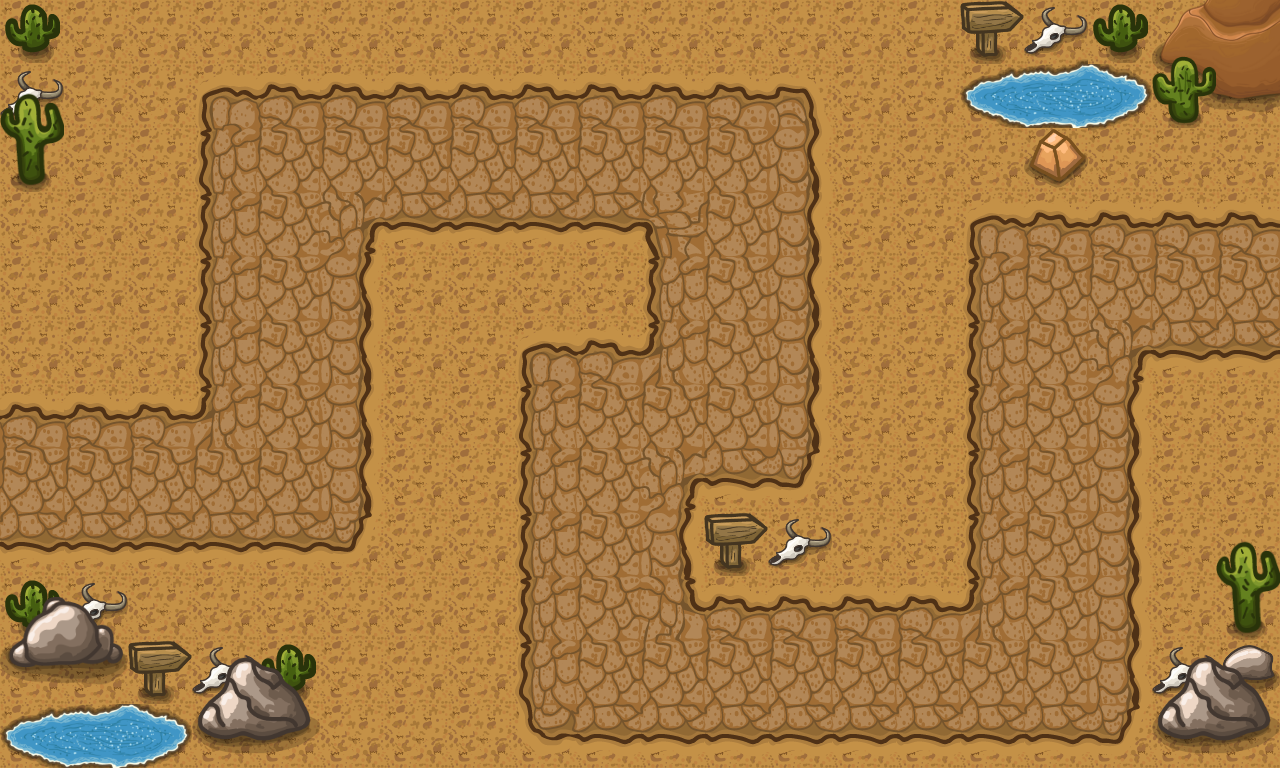
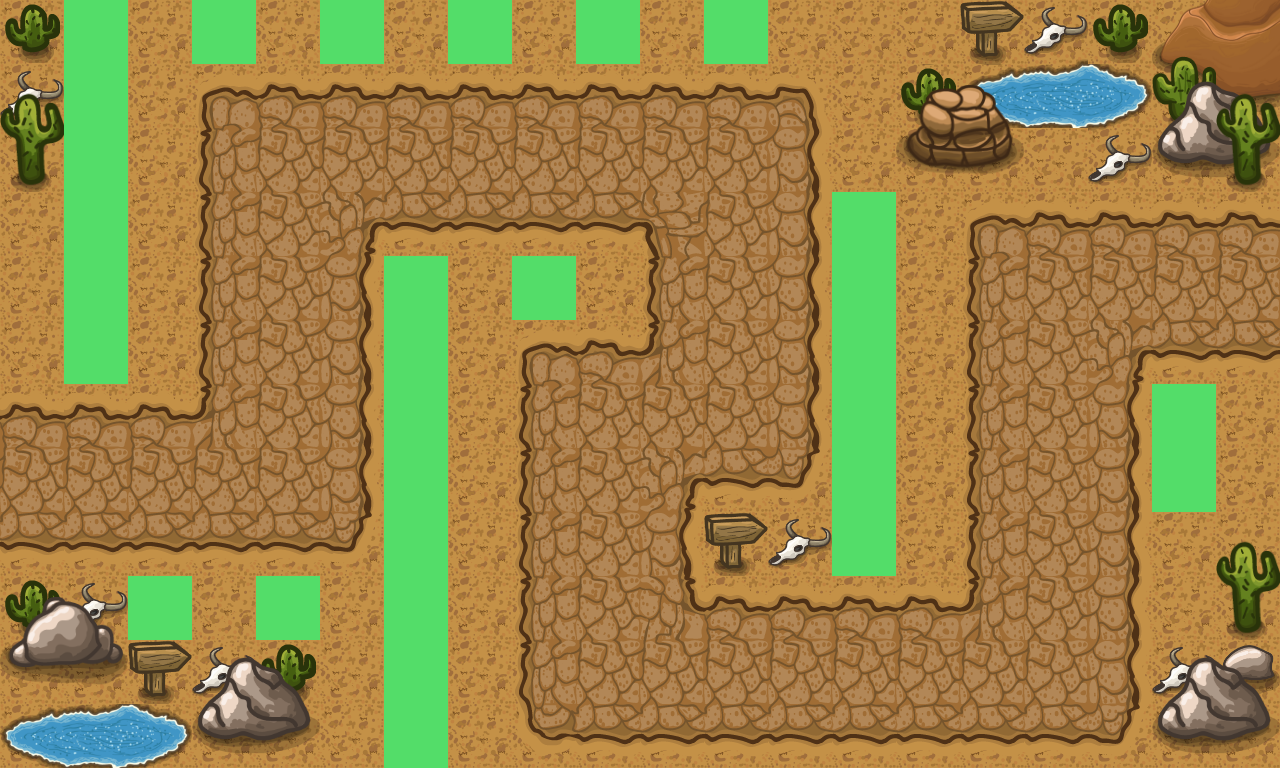
compelete Building Placement

diff --git a/assets/towerDefense.js b/assets/towerDefense.js
@@ -144,14 +144,14 @@
                 }],
          "opacity":1,
          "type":"objectgroup",
-         "visible":true,
+         "visible":false,
          "x":0,
          "y":0
         }, 
         {
          "data":[0, 0, 0, 0, 0, 0, 0, 0, 0, 0, 0, 0, 0, 0, 0, 47, 48, 49, 58, 0,
             57, 0, 0, 0, 0, 0, 0, 0, 0, 0, 0, 0, 0, 0, 0, 0, 0, 0, 72, 0,
-            71, 0, 0, 0, 0, 0, 0, 0, 0, 0, 0, 0, 0, 0, 0, 0, 44, 0, 0, 0,
+            71, 0, 0, 0, 0, 0, 0, 0, 0, 0, 0, 0, 0, 0, 0, 0, 0, 48, 0, 0,
             0, 0, 0, 0, 0, 0, 0, 0, 0, 0, 0, 0, 0, 0, 0, 0, 0, 0, 0, 0,
             0, 0, 0, 0, 0, 0, 0, 0, 0, 0, 0, 0, 0, 0, 0, 0, 0, 0, 0, 0,
             0, 0, 0, 0, 0, 0, 0, 0, 0, 0, 0, 0, 0, 0, 0, 0, 0, 0, 0, 0,
@@ -173,8 +173,8 @@
         }, 
         {
          "data":[0, 0, 0, 0, 0, 0, 0, 0, 0, 0, 0, 0, 0, 0, 0, 0, 120, 0, 0, 0,
-            0, 0, 0, 0, 0, 0, 0, 0, 0, 0, 0, 0, 0, 0, 0, 133, 134, 135, 0, 0,
-            0, 0, 0, 0, 0, 0, 0, 0, 0, 0, 0, 0, 0, 0, 0, 0, 0, 149, 0, 0,
+            0, 0, 0, 0, 0, 0, 0, 0, 0, 0, 0, 0, 0, 0, 49, 133, 134, 135, 87, 88,
+            0, 0, 0, 0, 0, 0, 0, 0, 0, 0, 0, 0, 0, 0, 0, 0, 0, 149, 101, 102,
             0, 0, 0, 0, 0, 0, 0, 0, 0, 0, 0, 0, 0, 0, 0, 0, 0, 0, 0, 0,
             0, 0, 0, 0, 0, 0, 0, 0, 0, 0, 0, 0, 0, 0, 0, 0, 0, 0, 0, 0,
             0, 0, 0, 0, 0, 0, 0, 0, 0, 0, 0, 0, 0, 0, 0, 0, 0, 0, 0, 0,
@@ -193,8 +193,54 @@
          "width":20,
          "x":0,
          "y":0
+        }, 
+        {
+         "data":[0, 0, 0, 0, 0, 0, 0, 0, 0, 0, 0, 0, 0, 0, 0, 0, 0, 0, 0, 0,
+            0, 0, 0, 0, 0, 0, 0, 0, 0, 0, 0, 0, 0, 0, 85, 86, 0, 0, 0, 57,
+            0, 0, 0, 0, 0, 0, 0, 0, 0, 0, 0, 0, 0, 0, 99, 100, 0, 0, 0, 71,
+            0, 0, 0, 0, 0, 0, 0, 0, 0, 0, 0, 0, 0, 0, 0, 0, 0, 0, 0, 0,
+            0, 0, 0, 0, 0, 0, 0, 0, 0, 0, 0, 0, 0, 0, 0, 0, 0, 0, 0, 0,
+            0, 0, 0, 0, 0, 0, 0, 0, 0, 0, 0, 0, 0, 0, 0, 0, 0, 0, 0, 0,
+            0, 0, 0, 0, 0, 0, 0, 0, 0, 0, 0, 0, 0, 0, 0, 0, 0, 0, 0, 0,
+            0, 0, 0, 0, 0, 0, 0, 0, 0, 0, 0, 0, 0, 0, 0, 0, 0, 0, 0, 0,
+            0, 0, 0, 0, 0, 0, 0, 0, 0, 0, 0, 0, 0, 0, 0, 0, 0, 0, 0, 0,
+            0, 0, 0, 0, 0, 0, 0, 0, 0, 0, 0, 0, 0, 0, 0, 0, 0, 0, 0, 0,
+            0, 0, 0, 0, 0, 0, 0, 0, 0, 0, 0, 0, 0, 0, 0, 0, 0, 0, 0, 0,
+            0, 0, 0, 0, 0, 0, 0, 0, 0, 0, 0, 0, 0, 0, 0, 0, 0, 0, 0, 0],
+         "height":12,
+         "id":9,
+         "name":"Details 4",
+         "opacity":1,
+         "type":"tilelayer",
+         "visible":true,
+         "width":20,
+         "x":0,
+         "y":0
+        }, 
+        {
+         "data":[0, 14, 0, 14, 0, 14, 0, 14, 0, 14, 0, 14, 0, 0, 0, 0, 0, 0, 0, 0,
+            0, 14, 0, 0, 0, 0, 0, 0, 0, 0, 0, 0, 0, 0, 0, 0, 0, 0, 0, 0,
+            0, 14, 0, 0, 0, 0, 0, 0, 0, 0, 0, 0, 0, 0, 0, 0, 0, 0, 0, 0,
+            0, 14, 0, 0, 0, 0, 0, 0, 0, 0, 0, 0, 0, 14, 0, 0, 0, 0, 0, 0,
+            0, 14, 0, 0, 0, 0, 14, 0, 14, 0, 0, 0, 0, 14, 0, 0, 0, 0, 0, 0,
+            0, 14, 0, 0, 0, 0, 14, 0, 0, 0, 0, 0, 0, 14, 0, 0, 0, 0, 0, 0,
+            0, 0, 0, 0, 0, 0, 14, 0, 0, 0, 0, 0, 0, 14, 0, 0, 0, 0, 14, 0,
+            0, 0, 0, 0, 0, 0, 14, 0, 0, 0, 0, 0, 0, 14, 0, 0, 0, 0, 14, 0,
+            0, 0, 0, 0, 0, 0, 14, 0, 0, 0, 0, 0, 0, 14, 0, 0, 0, 0, 0, 0,
+            0, 0, 14, 0, 14, 0, 14, 0, 0, 0, 0, 0, 0, 0, 0, 0, 0, 0, 0, 0,
+            0, 0, 0, 0, 0, 0, 14, 0, 0, 0, 0, 0, 0, 0, 0, 0, 0, 0, 0, 0,
+            0, 0, 0, 0, 0, 0, 14, 0, 0, 0, 0, 0, 0, 0, 0, 0, 0, 0, 0, 0],
+         "height":12,
+         "id":10,
+         "name":"Placement Title",
+         "opacity":1,
+         "type":"tilelayer",
+         "visible":true,
+         "width":20,
+         "x":0,
+         "y":0
         }],
- "nextlayerid":9,
+ "nextlayerid":11,
  "nextobjectid":3,
  "orientation":"orthogonal",
  "renderorder":"right-down",

diff --git a/js/main.js b/js/main.js
@@ -7,48 +7,35 @@ canvas.height = 769;
 ctx.fillStyle = 'white';
 ctx.fillRect(0, 0, canvas.width, canvas.height);
 
+const placementTilesData2D = [];
+
+for (let i = 0; i < placementTilesData.length; i += 20) {
+  placementTilesData2D.push(placementTilesData.slice(i, i + 20));
+}
+
+const placementTiles = [];
+
+placementTilesData2D.forEach((row, y) => {
+  row.forEach((symbol, x) => {
+    if (symbol === 14) {
+      // add building placement tile here
+      placementTiles.push(
+        new PlacementTile({
+          position: {
+            x: x * 64,
+            y: y * 64,
+          },
+        })
+      );
+    }
+  });
+});
+
+console.log(placementTiles);
+
 const image = new Image();
 
 image.src = 'assets/gameMap.png';
-
-class Enemy {
-  constructor({ position = { x: 0, y: 0 } }) {
-    this.position = position;
-    this.width = 100;
-    this.height = 100;
-    this.waypointIndex = 0;
-    this.center = {
-      x: this.position.x + this.width / 2,
-      y: this.position.y + this.height / 2,
-    };
-  }
-  draw() {
-    ctx.fillStyle = 'red';
-    ctx.fillRect(this.position.x, this.position.y, this.width, this.height);
-  }
-  update() {
-    this.draw();
-
-    const waypoint = waypoints[this.waypointIndex];
-    const yDistance = waypoint.y - this.center.y;
-    const xDistance = waypoint.x - this.center.x;
-    const angle = Math.atan2(yDistance, xDistance);
-    this.position.x += Math.cos(angle);
-    this.position.y += Math.sin(angle);
-    this.center = {
-      x: this.position.x + this.width / 2,
-      y: this.position.y + this.height / 2,
-    };
-
-    if (
-      Math.round(this.center.x) === Math.round(waypoint.x) &&
-      Math.round(this.center.y) === Math.round(waypoint.y) &&
-      this.waypointIndex < waypoints.length - 1
-    ) {
-      this.waypointIndex++;
-    }
-  }
-}
 
 const enemies = [];
 for (let i = 1; i < 10; i++) {
@@ -60,13 +47,62 @@ for (let i = 1; i < 10; i++) {
   );
 }
 
-let x = 200;
+const buildings = [];
+let activeTile = undefined;
+
 function animate() {
   requestAnimationFrame(animate);
   ctx.drawImage(image, 0, 0);
   enemies.forEach((enemy) => {
     enemy.update();
   });
+
+  placementTiles.forEach((tile) => {
+    tile.update(mouse);
+  });
+
+  buildings.forEach((building) => {
+    building.draw();
+  });
 }
+
+const mouse = {
+  x: undefined,
+  y: undefined,
+};
+
+canvas.addEventListener('click', (event) => {
+  if (activeTile && !activeTile.isOccupied) {
+    buildings.push(
+      new Building({
+        position: {
+          x: activeTile.position.x,
+          y: activeTile.position.y,
+        },
+      })
+    );
+    activeTile.isOccupied = true;
+  }
+  console.log(buildings);
+});
+
+window.addEventListener('mousemove', (event) => {
+  mouse.x = event.clientX;
+  mouse.y = event.clientY;
+
+  activeTile = null;
+  for (let i = 0; i < placementTiles.length; i++) {
+    const tile = placementTiles[i];
+    if (
+      mouse.x > tile.position.x &&
+      mouse.x < tile.position.x + tile.size &&
+      mouse.y > tile.position.y &&
+      mouse.y < tile.position.y + tile.size
+    ) {
+      activeTile = tile;
+      break;
+    }
+  }
+});
 
 animate();

diff --git a/js/classes.js b/js/classes.js
@@ -1,0 +1,78 @@
+class PlacementTile {
+  constructor({ position = { x: 0, y: 0 } }) {
+    this.position = position;
+    this.size = 64;
+    this.color = 'rgba(255, 255, 255, 0.15)';
+    this.isOccupied = false;
+  }
+
+  draw() {
+    ctx.fillStyle = this.color;
+    ctx.fillRect(this.position.x, this.position.y, this.size, this.size);
+  }
+
+  update(mouse) {
+    this.draw();
+    if (
+      mouse.x > this.position.x &&
+      mouse.x < this.position.x + this.size &&
+      mouse.y > this.position.y &&
+      mouse.y < this.position.y + this.size
+    ) {
+      console.log('coliding');
+      this.color = 'white';
+    } else this.color = 'rgba(255, 255, 255, 0.15)';
+  }
+}
+
+class Enemy {
+  constructor({ position = { x: 0, y: 0 } }) {
+    this.position = position;
+    this.width = 100;
+    this.height = 100;
+    this.waypointIndex = 0;
+    this.center = {
+      x: this.position.x + this.width / 2,
+      y: this.position.y + this.height / 2,
+    };
+  }
+  draw() {
+    ctx.fillStyle = 'red';
+    ctx.fillRect(this.position.x, this.position.y, this.width, this.height);
+  }
+  update() {
+    this.draw();
+
+    const waypoint = waypoints[this.waypointIndex];
+    const yDistance = waypoint.y - this.center.y;
+    const xDistance = waypoint.x - this.center.x;
+    const angle = Math.atan2(yDistance, xDistance);
+    this.position.x += Math.cos(angle);
+    this.position.y += Math.sin(angle);
+    this.center = {
+      x: this.position.x + this.width / 2,
+      y: this.position.y + this.height / 2,
+    };
+
+    if (
+      Math.round(this.center.x) === Math.round(waypoint.x) &&
+      Math.round(this.center.y) === Math.round(waypoint.y) &&
+      this.waypointIndex < waypoints.length - 1
+    ) {
+      this.waypointIndex++;
+    }
+  }
+}
+
+class Building {
+  constructor({ position = { x: 0, y: 0 } }) {
+    this.position = position;
+    this.width = 64 * 2;
+    this.height = 64;
+  }
+
+  draw() {
+    ctx.fillStyle = 'blue';
+    ctx.fillRect(this.position.x, this.position.y, this.width, this.height);
+  }
+}

diff --git a/js/placementTilesData.js b/js/placementTilesData.js
@@ -1,0 +1,12 @@
+const placementTilesData = [
+  0, 14, 0, 14, 0, 14, 0, 14, 0, 14, 0, 14, 0, 0, 0, 0, 0, 0, 0, 0, 0, 14, 0, 0,
+  0, 0, 0, 0, 0, 0, 0, 0, 0, 0, 0, 0, 0, 0, 0, 0, 0, 14, 0, 0, 0, 0, 0, 0, 0, 0,
+  0, 0, 0, 0, 0, 0, 0, 0, 0, 0, 0, 14, 0, 0, 0, 0, 0, 0, 0, 0, 0, 0, 0, 14, 0,
+  0, 0, 0, 0, 0, 0, 14, 0, 0, 0, 0, 14, 0, 14, 0, 0, 0, 0, 14, 0, 0, 0, 0, 0, 0,
+  0, 14, 0, 0, 0, 0, 14, 0, 0, 0, 0, 0, 0, 14, 0, 0, 0, 0, 0, 0, 0, 0, 0, 0, 0,
+  0, 14, 0, 0, 0, 0, 0, 0, 14, 0, 0, 0, 0, 14, 0, 0, 0, 0, 0, 0, 0, 14, 0, 0, 0,
+  0, 0, 0, 14, 0, 0, 0, 0, 14, 0, 0, 0, 0, 0, 0, 0, 14, 0, 0, 0, 0, 0, 0, 14, 0,
+  0, 0, 0, 0, 0, 0, 0, 14, 0, 14, 0, 14, 0, 0, 0, 0, 0, 0, 0, 0, 0, 0, 0, 0, 0,
+  0, 0, 0, 0, 0, 0, 14, 0, 0, 0, 0, 0, 0, 0, 0, 0, 0, 0, 0, 0, 0, 0, 0, 0, 0, 0,
+  14, 0, 0, 0, 0, 0, 0, 0, 0, 0, 0, 0, 0, 0,
+];

diff --git a/index.html b/index.html
@@ -4,6 +4,8 @@
 <body>
   <canvas></canvas>
 
+  <script src="js/placementTilesData.js"></script>
   <script src="js/waypoints.js"></script>
+  <script src="js/classes.js"></script>
   <script src="js/main.js"></script>
 </body>
